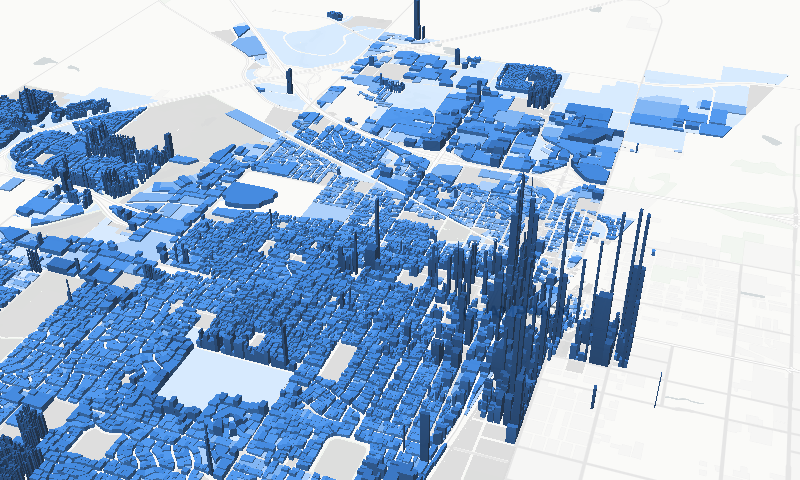
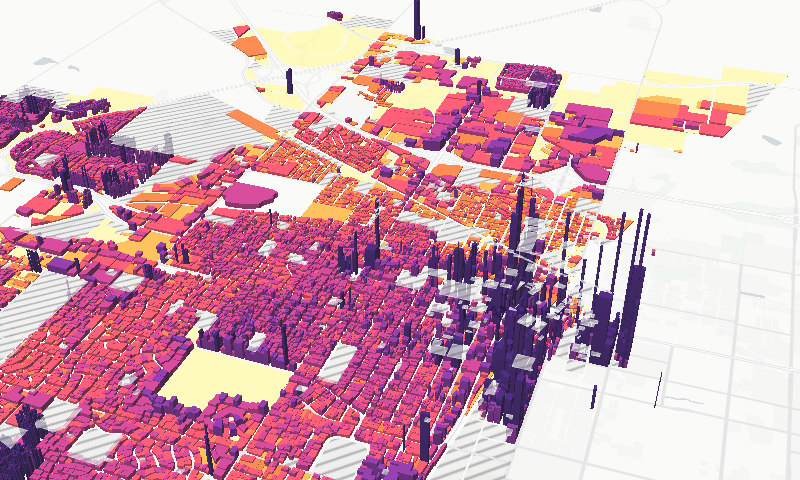
Value per acre: bolder color scales with a vs.-average option
Replace the single-hue blue ramp with a colorblind-safe yellow-to-purple
ramp (after magma) for value and tax per acre, and add a color scale
selector with a second option that colors each parcel against the selected
area's average per taxable acre: red below, neutral near, blue above
(after ColorBrewer RdBu). The average updates with the area filter and is
shown in the legend and map description.

Exempt and unassessed parcels now use a gray hatch so they never read as
a value on either scale. Refresh the Data Hub thumbnail.

Claude-Session: https://claude.ai/code/session_01X9ECNTL8pA2DcNVRFwo4PS

diff --git a/src/lib/parcelMapStyles.ts b/src/lib/parcelMapStyles.ts
@@ -1,5 +1,7 @@
 // Map styling for /data/value-per-acre. Breaks and extrusion heights are adapted from Strong Towns
 // Chicago's scales.js and rescaled for Champaign County, where values run lower than Chicago's.
+// Chicago's red-to-green ramp is replaced with colorblind-safe ramps whose lightness runs in one
+// direction, plus an optional red/blue scale centered on the selected area's average.
 
 export const PARCEL_BASEMAP = "https://basemaps.cartocdn.com/gl/positron-gl-style/style.json";
 
@@ -9,12 +11,24 @@ export const VIEW_3D = { pitch: 55, bearing: -20 };
 export const MIN_ZOOM = 8;
 export const MAX_ZOOM = 18;
 
-export const NO_DATA_COLOR = "#d4d4d4";
 export const VACANT_OUTLINE_COLOR = "#e34948";
+// Exempt parcels and parcels without an assessment get a gray diagonal hatch, so they never read
+// as a value on any color scale (including the neutral midpoint of the "vs. average" scale).
+export const NO_DATA_PATTERN = "parcel-no-data-hatch";
+export const NO_DATA_SWATCH =
+  "repeating-linear-gradient(135deg, #a3a3a3 0 1.5px, #ececec 1.5px 4px)";
 
 export type ParcelMetric = "value" | "tax" | "land";
 
-interface Bin {
+/** "bands" colors by fixed dollar bands; "average" colors by how a parcel compares to the area average. */
+export type ColorScale = "bands" | "average";
+
+export const COLOR_SCALES: { id: ColorScale; label: string }[] = [
+  { id: "bands", label: "Dollar bands" },
+  { id: "average", label: "vs. area average" },
+];
+
+export interface Bin {
   /** Upper bound (exclusive) of this bin; Infinity for the last bin */
   max: number;
   label: string;
@@ -44,8 +58,15 @@ const VALUE_HEIGHTS: [number, number][] = [
   [200_000_000, 2000],
 ];
 
-// Single-hue sequential ramps, light (low) to dark (high).
-const BLUE = ["#cde2fb", "#9ec5f4", "#6da7ec", "#3987e5", "#256abf", "#184f95", "#0d366b"];
+// Multi-hue sequential ramp (after matplotlib's "magma"): pale yellow (low) to deep purple (high).
+// Lightness falls steadily, so order survives color blindness and grayscale, while the hue shifts
+// keep neighboring bands distinct.
+const MAGMA = ["#fcf3b0", "#fbb447", "#f47a3b", "#df405a", "#a82873", "#641a7a", "#250a4f"];
+// Diverging ramp for "vs. area average" (after ColorBrewer RdBu): red below, blue above, neutral middle.
+const BELOW_AVERAGE = ["#a50f26", "#d6604d", "#f4a582"];
+const NEAR_AVERAGE = "#ece9e1";
+const ABOVE_AVERAGE = ["#7fb6d9", "#3b86c0", "#1a4f8f"];
+// Single-hue ramp for land share, light (low) to dark (high).
 const ORANGE = ["#fde3d3", "#f9c0a0", "#f39a6c", "#eb6834", "#c8521f", "#9c3e14"];
 
 export const MAP_METRICS: MetricConfig[] = [
@@ -56,13 +77,13 @@ export const MAP_METRICS: MetricConfig[] = [
     description: "Estimated market value (3 × equalized assessed value) divided by parcel area.",
     noDataLabel: "Exempt or no assessment",
     bins: [
-      { max: 100_000, label: "Under $100k", color: BLUE[0] },
-      { max: 250_000, label: "$100k–$250k", color: BLUE[1] },
-      { max: 500_000, label: "$250k–$500k", color: BLUE[2] },
-      { max: 1_000_000, label: "$500k–$1M", color: BLUE[3] },
-      { max: 2_000_000, label: "$1M–$2M", color: BLUE[4] },
-      { max: 5_000_000, label: "$2M–$5M", color: BLUE[5] },
-      { max: Infinity, label: "$5M and up", color: BLUE[6] },
+      { max: 100_000, label: "Under $100k", color: MAGMA[0] },
+      { max: 250_000, label: "$100k–$250k", color: MAGMA[1] },
+      { max: 500_000, label: "$250k–$500k", color: MAGMA[2] },
+      { max: 1_000_000, label: "$500k–$1M", color: MAGMA[3] },
+      { max: 2_000_000, label: "$1M–$2M", color: MAGMA[4] },
+      { max: 5_000_000, label: "$2M–$5M", color: MAGMA[5] },
+      { max: Infinity, label: "$5M and up", color: MAGMA[6] },
     ],
     heightField: "vpa",
     heights: VALUE_HEIGHTS,
@@ -74,13 +95,13 @@ export const MAP_METRICS: MetricConfig[] = [
     description: "Estimated property tax before exemptions (EAV × tax code rate) divided by parcel area.",
     noDataLabel: "Exempt or rate unavailable",
     bins: [
-      { max: 2_500, label: "Under $2.5k", color: BLUE[0] },
-      { max: 6_000, label: "$2.5k–$6k", color: BLUE[1] },
-      { max: 12_000, label: "$6k–$12k", color: BLUE[2] },
-      { max: 25_000, label: "$12k–$25k", color: BLUE[3] },
-      { max: 50_000, label: "$25k–$50k", color: BLUE[4] },
-      { max: 125_000, label: "$50k–$125k", color: BLUE[5] },
-      { max: Infinity, label: "$125k and up", color: BLUE[6] },
+      { max: 2_500, label: "Under $2.5k", color: MAGMA[0] },
+      { max: 6_000, label: "$2.5k–$6k", color: MAGMA[1] },
+      { max: 12_000, label: "$6k–$12k", color: MAGMA[2] },
+      { max: 25_000, label: "$12k–$25k", color: MAGMA[3] },
+      { max: 50_000, label: "$25k–$50k", color: MAGMA[4] },
+      { max: 125_000, label: "$50k–$125k", color: MAGMA[5] },
+      { max: Infinity, label: "$125k and up", color: MAGMA[6] },
     ],
     heightField: "tpa",
     heights: [
@@ -119,9 +140,29 @@ export function metricConfig(id: ParcelMetric): MetricConfig {
   return MAP_METRICS.find((metric) => metric.id === id) ?? MAP_METRICS[0];
 }
 
-export function colorExpression(metric: MetricConfig): unknown[] {
-  const expression: unknown[] = ["case", ["!", ["has", metric.field]], NO_DATA_COLOR];
-  for (const bin of metric.bins) {
+// Ratio-to-average breaks for the diverging scale. The middle bin (0.8-1.25x) is "near average".
+const AVERAGE_RATIOS = [0.25, 0.5, 0.8, 1.25, 2, 4];
+const RATIO_LABELS = ["Under ¼ of average", "¼–½ of average", "½–0.8× average", "Near average", "1.25–2× average", "2–4× average", "4× average or more"];
+const AVERAGE_COLORS = [...BELOW_AVERAGE, NEAR_AVERAGE, ...ABOVE_AVERAGE];
+
+export function supportsAverageScale(metric: MetricConfig): boolean {
+  return metric.field !== "land";
+}
+
+/** The legend bins in effect. "average" breaks are absolute values derived from the area average. */
+export function binsFor(metric: MetricConfig, scale: ColorScale, average: number | null): Bin[] {
+  if (scale !== "average" || !supportsAverageScale(metric) || !average || average <= 0) return metric.bins;
+  return AVERAGE_COLORS.map((color, index) => ({
+    max: index < AVERAGE_RATIOS.length ? average * AVERAGE_RATIOS[index] : Infinity,
+    label: RATIO_LABELS[index],
+    color,
+  }));
+}
+
+export function colorExpression(metric: MetricConfig, bins: Bin[] = metric.bins): unknown[] {
+  // No-data parcels are drawn by their own hatched layer; this color only applies in 3D, where they stay flat.
+  const expression: unknown[] = ["case", ["!", ["has", metric.field]], "#d4d4d4"];
+  for (const bin of bins) {
     if (bin.max === Infinity) expression.push(bin.color);
     else expression.push(["<", ["get", metric.field], bin.max], bin.color);
   }
@@ -135,6 +176,20 @@ export function heightExpression(metric: MetricConfig): unknown[] {
     0,
     ["interpolate", ["linear"], ["get", metric.heightField], ...metric.heights.flat()],
   ];
+}
+
+/** An 8x8 RGBA diagonal hatch for MapLibre's addImage, used as the no-data fill pattern. */
+export function noDataHatchImage(): { width: number; height: number; data: Uint8Array } {
+  const size = 8;
+  const data = new Uint8Array(size * size * 4);
+  for (let y = 0; y < size; y += 1) {
+    for (let x = 0; x < size; x += 1) {
+      const onLine = (x + y) % size < 2;
+      const [r, g, b, a] = onLine ? [163, 163, 163, 255] : [236, 236, 236, 220];
+      data.set([r, g, b, a], (y * size + x) * 4);
+    }
+  }
+  return { width: size, height: size, data };
 }
 
 export function areaFilter(cities: string[] | null): unknown[] {

diff --git a/src/components/parcels/ValuePerAcreDashboard.tsx b/src/components/parcels/ValuePerAcreDashboard.tsx
@@ -15,7 +15,14 @@ import {
   loadParcels,
   summarize,
 } from "@/lib/parcels";
-import { MAP_METRICS, metricConfig, type ParcelMetric } from "@/lib/parcelMapStyles";
+import {
+  COLOR_SCALES,
+  MAP_METRICS,
+  metricConfig,
+  supportsAverageScale,
+  type ColorScale,
+  type ParcelMetric,
+} from "@/lib/parcelMapStyles";
 import { cardClass, ErrorBlock, LoadingBlock } from "@/components/crashes/shared";
 import { LandUseTable } from "./LandUseTable";
 import { ParcelMap } from "./ParcelMap";
@@ -40,14 +47,18 @@ export default function ValuePerAcreDashboard() {
   const metric = (MAP_METRICS.some((m) => m.id === searchParams.get("metric"))
     ? searchParams.get("metric")
     : "value") as ParcelMetric;
+  const scale: ColorScale = searchParams.get("scale") === "average" ? "average" : "bands";
   const is3D = searchParams.get("view") === "3d";
   const showVacant = searchParams.get("vacant") === "1";
 
-  const updateParams = (next: Partial<{ area: string; metric: ParcelMetric; is3D: boolean; showVacant: boolean }>) => {
-    const state = { area, metric, is3D, showVacant, ...next };
+  const updateParams = (
+    next: Partial<{ area: string; metric: ParcelMetric; scale: ColorScale; is3D: boolean; showVacant: boolean }>,
+  ) => {
+    const state = { area, metric, scale, is3D, showVacant, ...next };
     const params = new URLSearchParams();
     if (state.area !== CU_METRO) params.set("area", state.area);
     if (state.metric !== "value") params.set("metric", state.metric);
+    if (state.scale !== "bands") params.set("scale", state.scale);
     if (state.is3D) params.set("view", "3d");
     if (state.showVacant) params.set("vacant", "1");
     const query = params.toString();
@@ -59,6 +70,9 @@ export default function ValuePerAcreDashboard() {
   const cities = useMemo(() => areaCities(area), [area]);
   const bounds = useMemo(() => (data ? boundsOf(data, area) : null), [data, area]);
   const config = metricConfig(metric);
+  // The "vs. area average" scale compares each parcel to the selected area's value (or tax) per taxable acre.
+  const average =
+    summary.taxableAcres > 0 ? (metric === "tax" ? summary.tax : summary.value) / summary.taxableAcres : null;
 
   return (
     <section className="mx-auto w-full max-w-6xl px-5 py-10 md:px-8 md:py-14">
@@ -114,6 +128,26 @@ export default function ValuePerAcreDashboard() {
               ))}
             </div>
 
+            {supportsAverageScale(config) && (
+              <>
+                <label htmlFor="parcel-scale" className="sr-only">
+                  Color scale
+                </label>
+                <select
+                  id="parcel-scale"
+                  value={scale}
+                  onChange={(event) => updateParams({ scale: event.target.value as ColorScale })}
+                  className="rounded-[4px] border border-[var(--color-border)] bg-white px-2 py-1.5 text-sm"
+                >
+                  {COLOR_SCALES.map((option) => (
+                    <option key={option.id} value={option.id}>
+                      Color: {option.label}
+                    </option>
+                  ))}
+                </select>
+              </>
+            )}
+
             <div className="flex gap-1.5" role="group" aria-label="Map view">
               <button type="button" aria-pressed={!is3D} onClick={() => updateParams({ is3D: false })} className={toggleClass(!is3D)}>
                 2D
@@ -142,10 +176,19 @@ export default function ValuePerAcreDashboard() {
                 {config.label} · {areaLabel(area)}
               </h2>
               <p className="mt-1 text-sm text-slate-600">
-                {config.description} Click any parcel for details.
+                {config.description}{" "}
+                {scale === "average" && supportsAverageScale(config) && average !== null
+                  ? `Red parcels produce less per acre than the ${areaLabel(area)} average of ${formatMoney(average, { compact: true })}; blue parcels produce more. `
+                  : ""}
+                Click any parcel for details.
               </p>
             </div>
-            <ParcelMap data={data} metric={metric} cities={cities} bounds={bounds} is3D={is3D} showVacant={showVacant} />
+            <ParcelMap
+              data={data}
+              metric={metric}
+              scale={scale}
+              average={average}
+              cities={cities} bounds={bounds} is3D={is3D} showVacant={showVacant} />
           </div>
 
           <div className={`${cardClass} mt-8 p-4 md:p-6`}>
@@ -203,7 +246,7 @@ function MethodologyNote({ data }: { data: Parcels }) {
         not its sale price, so farm values here are far below market. <strong>Property tax</strong> is EAV times the
         parcel&apos;s {meta.taxYear} tax code rate, before homestead and other exemptions, so it overstates bills for
         owner-occupied homes. <strong>Land share</strong> uses the assessor&apos;s land and building split. Exempt
-        property (government, schools, churches, the University) has no assessed value and is shown in gray.
+        property (government, schools, churches, the University) has no assessed value and is shown with gray hatching.
         Condominium units in one building are combined so the building&apos;s value sits on its land once. Wind and solar
         lease areas drawn over farm parcels are left out to avoid double counting.
       </p>

diff --git a/src/components/parcels/ParcelMap.tsx b/src/components/parcels/ParcelMap.tsx
@@ -13,38 +13,51 @@ import "maplibre-gl/dist/maplibre-gl.css";
 import type { Parcel, Parcels } from "@/lib/parcels";
 import {
   areaFilter,
+  binsFor,
   colorExpression,
   CU_VIEW_STATE,
   heightExpression,
   MAX_ZOOM,
   metricConfig,
   MIN_ZOOM,
-  NO_DATA_COLOR,
+  NO_DATA_PATTERN,
+  NO_DATA_SWATCH,
+  noDataHatchImage,
   PARCEL_BASEMAP,
   VACANT_OUTLINE_COLOR,
   VIEW_3D,
+  type ColorScale,
   type ParcelMetric,
 } from "@/lib/parcelMapStyles";
+import { formatMoney } from "@/lib/parcels";
 import { ParcelPopup } from "./ParcelPopup";
 
 interface ParcelMapProps {
   data: Parcels;
   metric: ParcelMetric;
+  scale: ColorScale;
+  /** Area average of the metric (per taxable acre), used by the "vs. area average" scale */
+  average: number | null;
   cities: string[] | null;
   bounds: [number, number, number, number] | null;
   is3D: boolean;
   showVacant: boolean;
 }
 
-const INTERACTIVE_LAYERS = ["parcels-fill", "parcels-extrusion"];
+const INTERACTIVE_LAYERS = ["parcels-fill", "parcels-extrusion", "parcels-no-data"];
 
-export function ParcelMap({ data, metric, cities, bounds, is3D, showVacant }: ParcelMapProps) {
+export function ParcelMap({ data, metric, scale, average, cities, bounds, is3D, showVacant }: ParcelMapProps) {
   const mapRef = useRef<MapRef>(null);
   const [loaded, setLoaded] = useState(false);
   const [selected, setSelected] = useState<{ parcel: Parcel; lngLat: [number, number] } | null>(null);
   const config = metricConfig(metric);
   const filter = useMemo(() => areaFilter(cities), [cities]);
-  const color = useMemo(() => colorExpression(config), [config]);
+  const bins = useMemo(() => binsFor(config, scale, average), [config, scale, average]);
+  const isAverageScale = bins !== config.bins;
+  const color = useMemo(() => colorExpression(config, bins), [config, bins]);
+  const hasValue = ["has", config.field];
+  const valueFilter = ["all", filter, hasValue];
+  const noDataFilter = ["all", filter, ["!", hasValue]];
   const height = useMemo(() => heightExpression(config), [config]);
 
   // Camera moves are ignored until the map has loaded, so wait for it before fitting the area.
@@ -87,15 +100,26 @@ export function ParcelMap({ data, metric, cities, bounds, is3D, showVacant }: Pa
         mapStyle={PARCEL_BASEMAP}
         interactiveLayerIds={INTERACTIVE_LAYERS}
         onClick={handleClick}
-        onLoad={() => setLoaded(true)}
+        onLoad={(event) => {
+          if (!event.target.hasImage(NO_DATA_PATTERN)) event.target.addImage(NO_DATA_PATTERN, noDataHatchImage());
+          setLoaded(true);
+        }}
         cursor="pointer"
       >
         <NavigationControl position="top-right" visualizePitch />
         <Source id="parcels" type="geojson" data={data.geojson} tolerance={0.25}>
+          {loaded && (
+            <Layer
+              id="parcels-no-data"
+              type="fill"
+              filter={noDataFilter as never}
+              paint={{ "fill-pattern": NO_DATA_PATTERN, "fill-opacity": 0.8 }}
+            />
+          )}
           <Layer
             id="parcels-fill"
             type="fill"
-            filter={filter as never}
+            filter={valueFilter as never}
             layout={{ visibility: is3D ? "none" : "visible" }}
             paint={{ "fill-color": color as never, "fill-opacity": 0.85 }}
           />
@@ -110,7 +134,7 @@ export function ParcelMap({ data, metric, cities, bounds, is3D, showVacant }: Pa
           <Layer
             id="parcels-extrusion"
             type="fill-extrusion"
-            filter={filter as never}
+            filter={valueFilter as never}
             layout={{ visibility: is3D ? "visible" : "none" }}
             paint={{
               "fill-extrusion-color": color as never,
@@ -150,16 +174,19 @@ export function ParcelMap({ data, metric, cities, bounds, is3D, showVacant }: Pa
       </Map>
 
       <div className="absolute bottom-8 left-3 max-w-[220px] rounded-[4px] bg-white/90 p-3 shadow-md backdrop-blur-sm">
-        <p className="mb-2 text-xs font-semibold">{config.label}</p>
-        <div className="space-y-1">
-          {[...config.bins].reverse().map((bin) => (
+        <p className="text-xs font-semibold">{config.label}</p>
+        {isAverageScale && average !== null && (
+          <p className="text-[11px] text-slate-500">Area average: {formatMoney(average, { compact: true })}</p>
+        )}
+        <div className="mt-2 space-y-1">
+          {[...bins].reverse().map((bin) => (
             <div key={bin.label} className="flex items-center gap-2">
-              <span className="h-3 w-4 rounded-[2px]" style={{ backgroundColor: bin.color }} />
+              <span className="h-3 w-4 shrink-0 rounded-[2px]" style={{ backgroundColor: bin.color }} />
               <span className="text-xs text-slate-700">{bin.label}</span>
             </div>
           ))}
           <div className="flex items-center gap-2">
-            <span className="h-3 w-4 rounded-[2px]" style={{ backgroundColor: NO_DATA_COLOR }} />
+            <span className="h-3 w-4 shrink-0 rounded-[2px]" style={{ background: NO_DATA_SWATCH }} />
             <span className="text-xs text-slate-700">{config.noDataLabel}</span>
           </div>
           {showVacant && (
